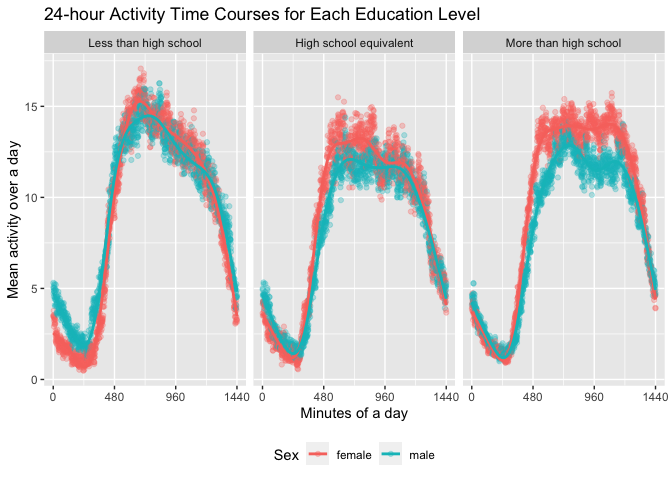
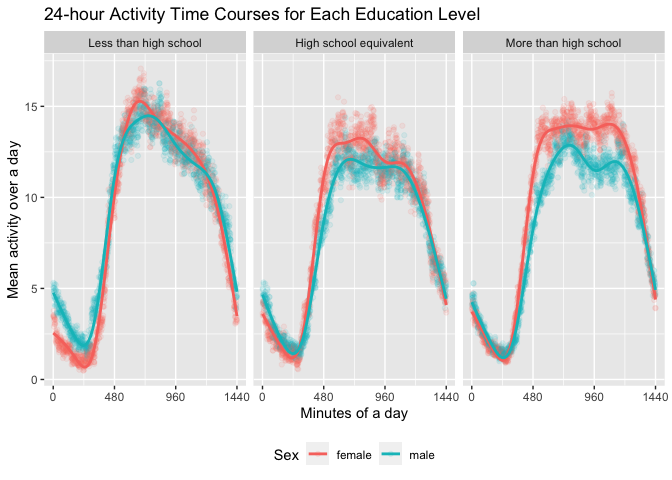
finish problem 3

diff --git a/p8105_hw3_rx2236.md b/p8105_hw3_rx2236.md
@@ -479,7 +479,7 @@ merged_df2 |>
   group_by(minute, sex, education) |>
   summarise(mean_activity = mean(mims_value)) |>
   ggplot(aes(x = minute, y = mean_activity, color = sex)) +
-  geom_point(alpha = .3) +
+  geom_point(alpha = .1) +
   geom_smooth(se = FALSE) +
   scale_x_continuous(breaks = c(0, 480, 960, 1440)) +
   theme(legend.position = "bottom") +
@@ -497,3 +497,17 @@ merged_df2 |>
     ## `geom_smooth()` using method = 'gam' and formula = 'y ~ s(x, bs = "cs")'
 
 ![](p8105_hw3_rx2236_files/figure-gfm/unnamed-chunk-20-1.png)<!-- -->
+Based on the graph, we can see that for all three education levels,
+female tend to have higher/more activity over a day than male, while
+this difference is most obvious during the half of the day, i.e., around
+noon, and around midnight the activity level is pretty similar for
+female and male.
+
+It is worth noting that for people in “less than high school” education
+level group, male’s activity level is higher than female around
+midnight/at nighttime, which is different than the other two groups.
+
+One pattern is that people have higher education level tend to have
+lower activity level during the daytime, which implies they tend to work
+in door or their work require less physical activity. And male performs
+more obviously in this pattern.
